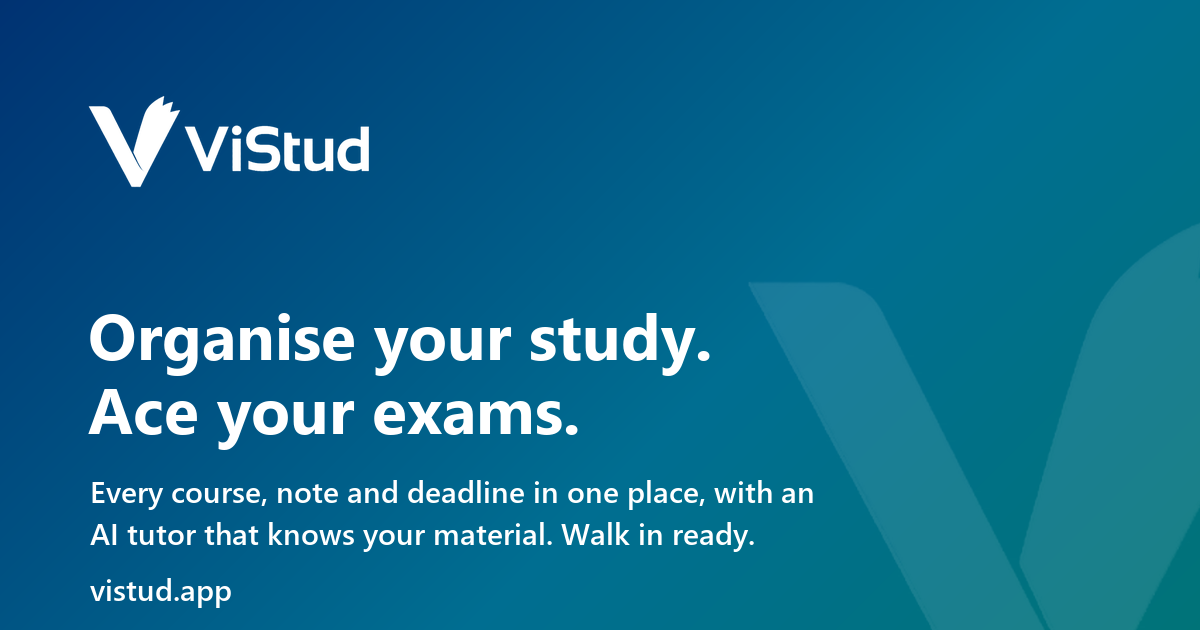
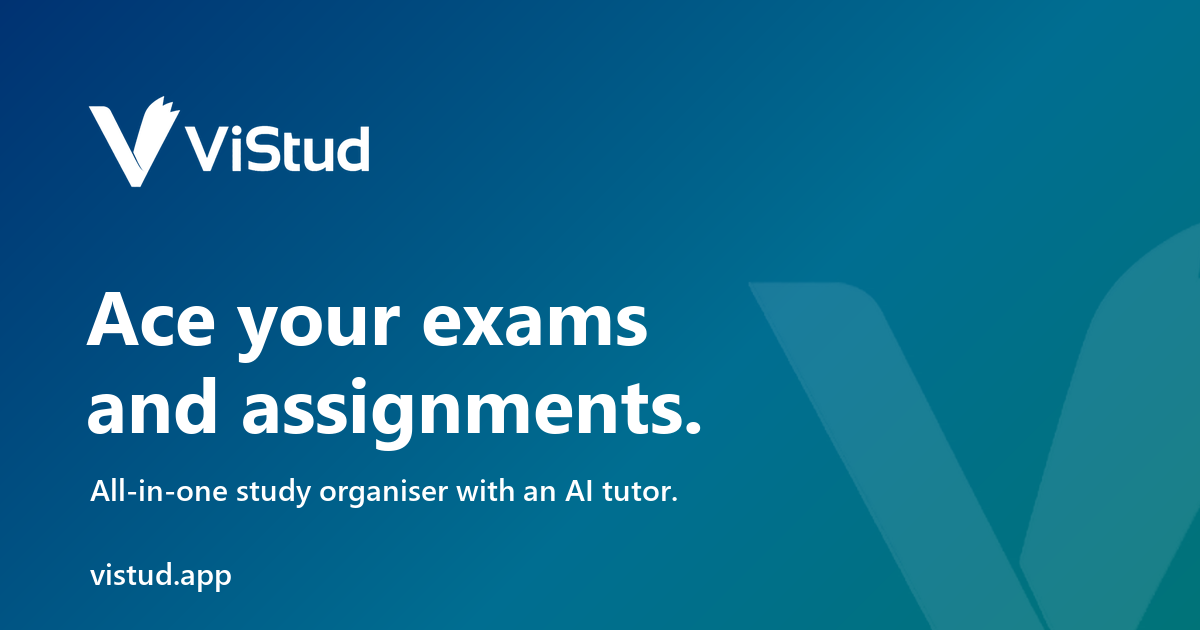
feat(share): the words people search for first - "All-in-one study organiser with an AI tutor", "Ace your exams and assignments"
- Google and every shared link show "ViStud: All-in-one study organiser with an AI tutor"; the login page's own
  title says it too, instead of "Log in"
- the share picture and the sign-in page: "Ace your exams and assignments." over one short line
- a shorter description and invitation line; the tutor helps with an assignment, it never does it

Changed region(s): [[0.0617, 0.4524, 0.5858, 0.7238], [0.0617, 0.754, 0.6783, 0.8746], [0.0617, 0.9048, 0.2158, 0.9651]]

diff --git a/app/Appearance/Share.php b/app/Appearance/Share.php
@@ -15,17 +15,26 @@ final class Share
 {
     public const NAME = 'ViStud';
 
-    public const TAGLINE = 'Organise your study. Ace your exams.';
+    /**
+     * The words people search for come first (the owner, 2026-10-23): a study organiser, an AI tutor, exams and
+     * assignments. The tutor helps with an assignment; it never does it for you.
+     */
+    public const TITLE = 'ViStud: All-in-one study organiser with an AI tutor';
 
-    public const DESCRIPTION = 'Every course, note and deadline in one place, with an AI tutor that knows your material. Walk into exams and assignments ready.';
+    /** The headline on the share picture and the sign-in page, with SUMMARY under it. */
+    public const TAGLINE = 'Ace your exams and assignments.';
+
+    public const SUMMARY = 'All-in-one study organiser with an AI tutor.';
+
+    public const DESCRIPTION = 'Organise your courses, notes and deadlines in one place, with an AI tutor that helps with every assignment. Ace your exams.';
 
     /** What an invitation or a class link's preview says, under its title. */
-    public const JOIN = 'Join ViStud to organise your courses, stay ahead of deadlines and ace your exams and assignments, with an AI tutor that knows your material.';
+    public const JOIN = 'Join the all-in-one study organiser with an AI tutor. Ace your exams and assignments.';
 
     /** The picture a shared link shows, 1200 by 630 (public/brand/share.png). */
     public const IMAGE = 'brand/share.png';
 
-    public const IMAGE_ALT = 'ViStud: organise your study, ace your exams.';
+    public const IMAGE_ALT = 'ViStud: ace your exams and assignments. All-in-one study organiser with an AI tutor.';
 
     /** The pages search engines may list: signed out, the same for everyone. */
     public const INDEXABLE = ['login', 'privacy'];

diff --git a/tests/Feature/Web/ShareTest.php b/tests/Feature/Web/ShareTest.php
@@ -26,11 +26,12 @@ class ShareTest extends TestCase
     {
         $bar = Share::barColors();
         $this->get(route('login'))->assertOk()
-            ->assertSee('<title>Log in · ViStud</title>', false)
+            ->assertSee('<title>'.e(Share::TITLE).'</title>', false)
             ->assertSee('<meta name="description" content="'.e(Share::DESCRIPTION).'">', false)
             ->assertSee('<meta name="robots" content="index, follow">', false)
             ->assertSee('<link rel="canonical" href="'.route('login').'">', false)
-            ->assertSee('<meta property="og:title" content="ViStud: Organise your study. Ace your exams.">', false)
+            ->assertSee('<meta property="og:title" content="'.e(Share::TITLE).'">', false)
+            ->assertSee(e(Share::TAGLINE), false)->assertSee(e(Share::SUMMARY), false)
             ->assertSee('<meta property="og:url" content="'.route('login').'">', false)
             ->assertSee('<meta property="og:image" content="'.asset('brand/share.png').'">', false)
             ->assertSee('<meta name="twitter:card" content="summary_large_image">', false)

diff --git a/resources/views/components/layouts/auth.blade.php b/resources/views/components/layouts/auth.blade.php
@@ -2,7 +2,7 @@
     The page frame for signed-out screens: login, two-factor challenge,
     password reset and invitation acceptance (DESIGN.md §7.1).
 --}}
-@props(['title', 'description' => null, 'shareTitle' => null, 'index' => false])
+@props(['title', 'pageTitle' => null, 'description' => null, 'shareTitle' => null, 'index' => false])
 <!DOCTYPE html>
 <html lang="{{ str_replace('_', '-', app()->getLocale()) }}"
     data-theme="{{ config('vistud.appearance.light') }}"
@@ -11,7 +11,7 @@
     data-appearance="system">
 <head>
     {{-- index: a page search engines may list (App\Appearance\Share::INDEXABLE); the others say noindex. --}}
-    @include('partials.head', ['title' => $title, 'description' => $description, 'shareTitle' => $shareTitle, 'index' => $index])
+    @include('partials.head', ['title' => $title, 'pageTitle' => $pageTitle, 'description' => $description, 'shareTitle' => $shareTitle, 'index' => $index])
 </head>
 <body class="min-h-dvh bg-canvas text-fg antialiased">
     {{ $slot }}

diff --git a/resources/views/partials/head.blade.php b/resources/views/partials/head.blade.php
@@ -7,13 +7,15 @@
     $share = \App\Appearance\Share::class;
     $index ??= false;
     $description ??= $share::DESCRIPTION;
-    $shareTitle ??= $share::NAME.': '.$share::TAGLINE;
+    $shareTitle ??= $share::TITLE;
+    // The whole title, for a page whose name is not the one search shows (login: what ViStud is, not "Log in").
+    $pageTitle ??= $title.' · ViStud';
     $bar = $share::barColors();
 @endphp
 <meta charset="utf-8">
 <meta name="viewport" content="width=device-width, initial-scale=1, viewport-fit=cover">
 <meta name="color-scheme" content="light dark">
-<title>{{ $title }} · ViStud</title>
+<title>{{ $pageTitle }}</title>
 <meta name="description" content="{{ $description }}">
 <meta name="robots" content="{{ $index ? 'index, follow' : 'noindex, nofollow' }}">
 @if ($index)

diff --git a/resources/views/auth/login.blade.php b/resources/views/auth/login.blade.php
@@ -7,7 +7,8 @@
     $credentialsError = collect($errors->get('email'))->first(fn ($message) => $message === __('auth.failed')
         || str_starts_with($message, strstr(__('auth.throttle'), ':seconds', true)));
 @endphp
-<x-layouts.auth title="Log in" :index="true">
+{{-- The page search lists, so its title says what ViStud is (App\Appearance\Share::TITLE), not "Log in". --}}
+<x-layouts.auth title="Log in" :page-title="\App\Appearance\Share::TITLE" :index="true">
     <div class="grid min-h-dvh grid-cols-[minmax(0,1fr)] grid-rows-[auto_1fr] lg:grid-cols-[minmax(0,5fr)_minmax(0,7fr)] lg:grid-rows-none">
         <x-auth.brand-panel />
 

diff --git a/resources/views/components/auth/brand-panel.blade.php b/resources/views/components/auth/brand-panel.blade.php
@@ -9,7 +9,7 @@
     <div class="mt-6 max-w-md lg:mt-auto lg:mb-auto">
         <p class="text-2xl font-semibold tracking-tight text-balance sm:text-3xl lg:text-4xl">{{ \App\Appearance\Share::TAGLINE }}</p>
         <p class="mt-3 hidden text-base text-fg-muted sm:block lg:text-lg">
-            {{ \App\Appearance\Share::DESCRIPTION }}
+            {{ \App\Appearance\Share::SUMMARY }}
         </p>
     </div>
 

diff --git a/DESIGN.md b/DESIGN.md
@@ -388,7 +388,7 @@ At least 44 × 44 px for every interactive element on touch devices (`pointer: c
 
 ### 7.1 Signed-out screens
 
-Login, two-factor challenge, password reset and invitation acceptance share `<x-layouts.auth>`: a `surface-brand` panel with the white logo and a short line of copy, and the form on a calm card over `surface-subtle`. The brand line is "Organise your study. Ace your exams." (owner, 2026-10-23: say what a student gets out of it), and the panel reads it and the line under it from `App\Appearance\Share`, the same words a shared link shows. The appearance switcher sits below the form. These screens submit as normal forms because the session changes; that is the one place a full page load is expected.
+Login, two-factor challenge, password reset and invitation acceptance share `<x-layouts.auth>`: a `surface-brand` panel with the white logo and a short line of copy, and the form on a calm card over `surface-subtle`. The brand line is "Ace your exams and assignments." over "All-in-one study organiser with an AI tutor." (owner, 2026-10-23: say what a student gets out of it, in the words people search for), and the panel reads both from `App\Appearance\Share`, the same words a shared link shows. The appearance switcher sits below the form. These screens submit as normal forms because the session changes; that is the one place a full page load is expected.
 
 The invitation page has three answers: the form (name, password, confirmation); "You're already logged in" for a signed-in visitor; and "This link doesn't work" for any invalid link, whatever the reason, so a link's state can't be probed. A first visit after accepting greets the person on home and tells them which email address they log in with.
 
